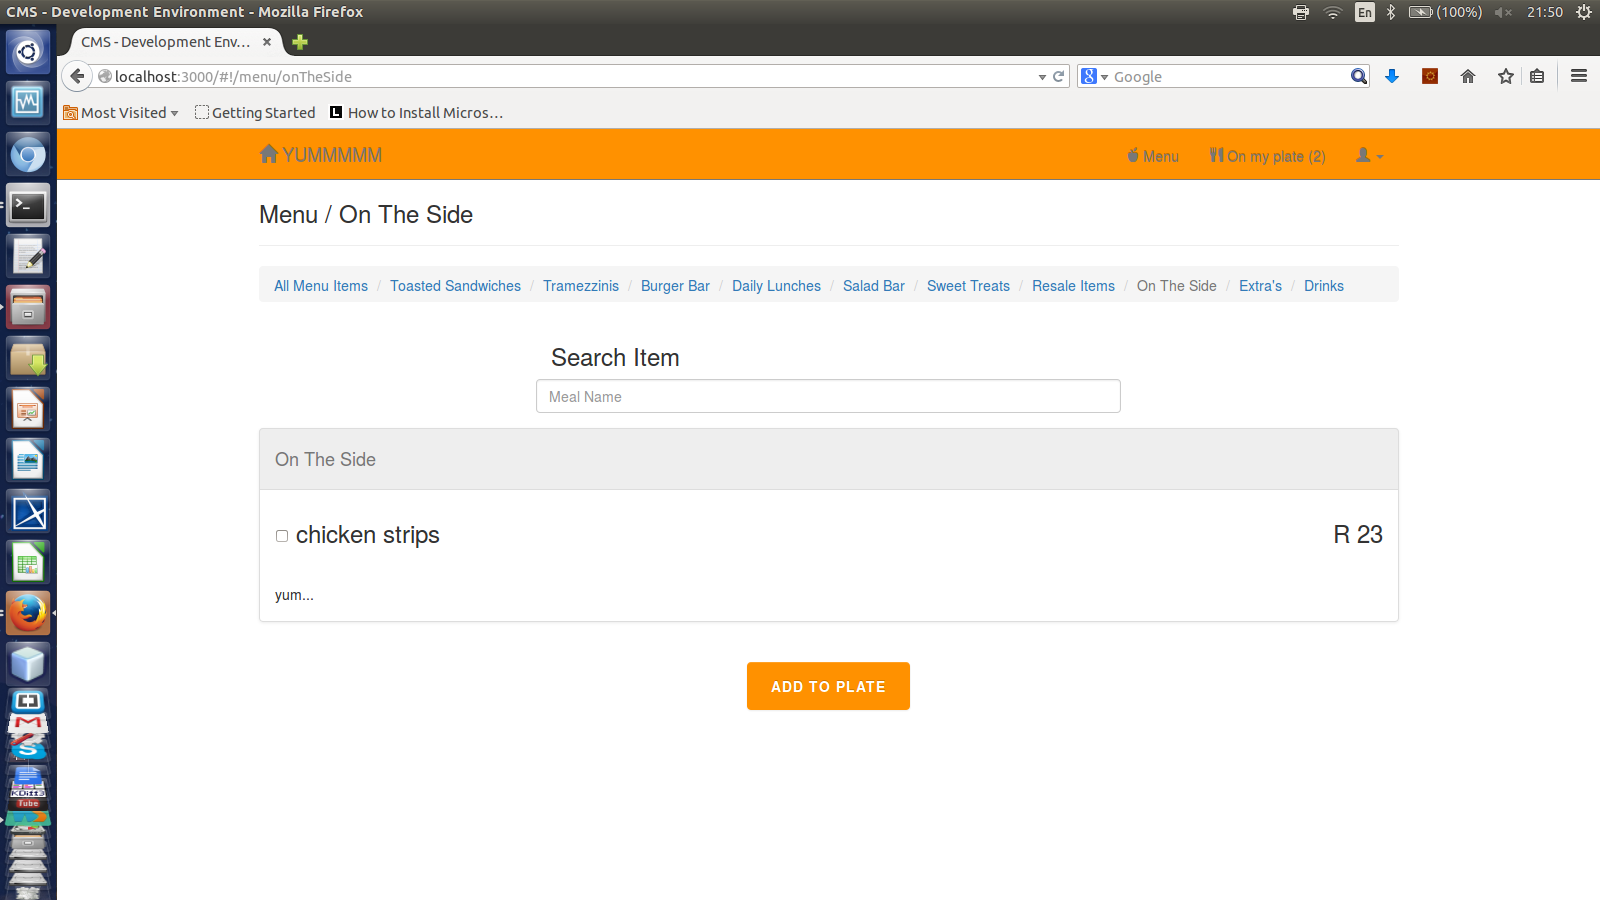
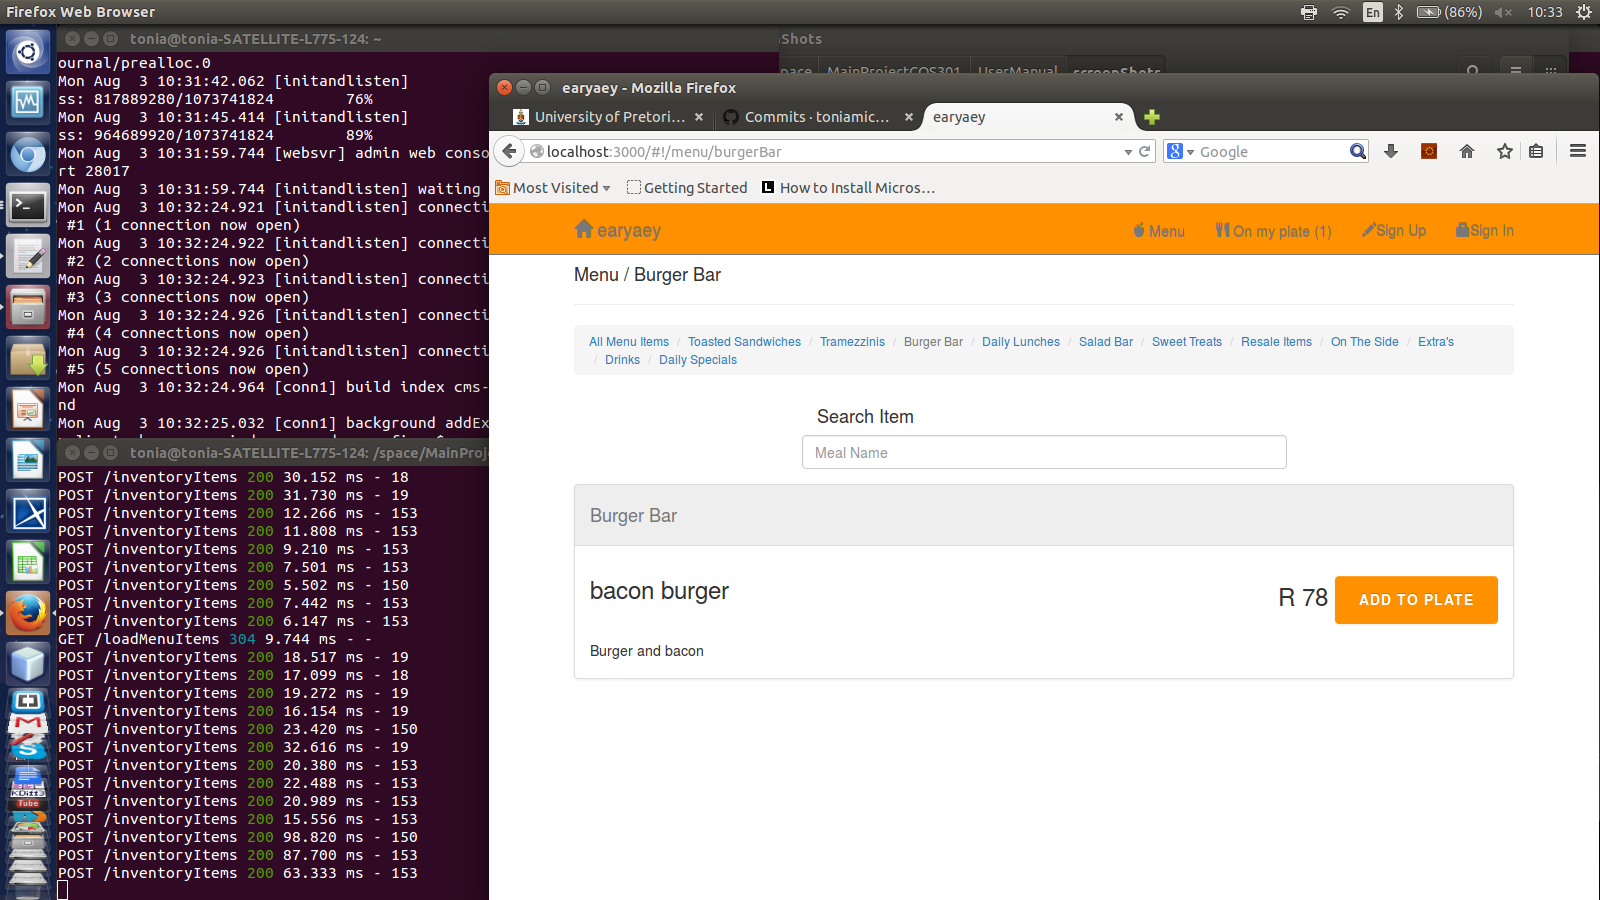
Edited view menu search results and added screen shots for manual

diff --git a/Cafeteria_Management_System/public/modules/orders/views/menu/menu.html b/Cafeteria_Management_System/public/modules/orders/views/menu/menu.html
@@ -49,8 +49,8 @@
             <h4> <b>Search Results:</b>  </h4>
         </a>
         <div class="list-group-item clearfix" ng-repeat="item in menuItems | filter:searchBar"><h3>
-            {{item.itemName}}  <span style="float:right;" > R {{item.price}}</span> </h3> <br> <h5> {{item.description}} </h5>
-			<button type="button" class="btn btn-primary" data-ng-show="item.stock" data-ng-click="addToPlate(item.itemName)"> Add to plate </button>
+            {{item.itemName}}  <span style="float:right;" > R {{item.price}} <button type="button" class="btn btn-primary" data-ng-show="item.stock" data-ng-click="addToPlate(item.itemName)"> Add to plate </button></span> </h3> <br> <h5> {{item.description}} </h5>
+
 		</div>
     </div>
 
